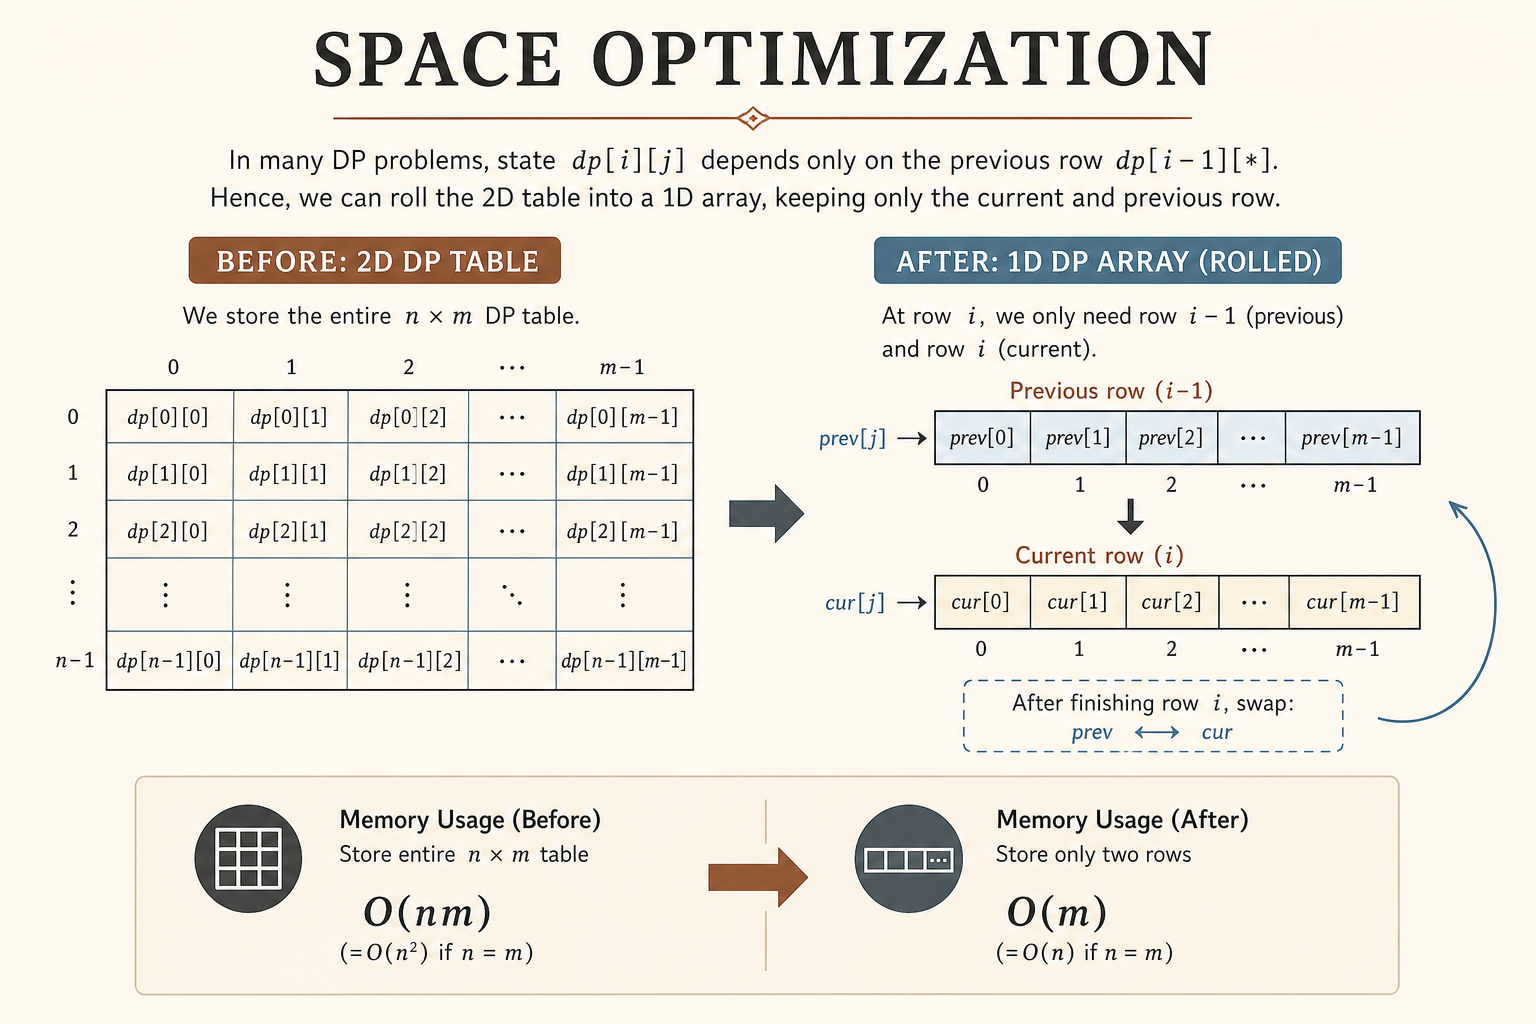
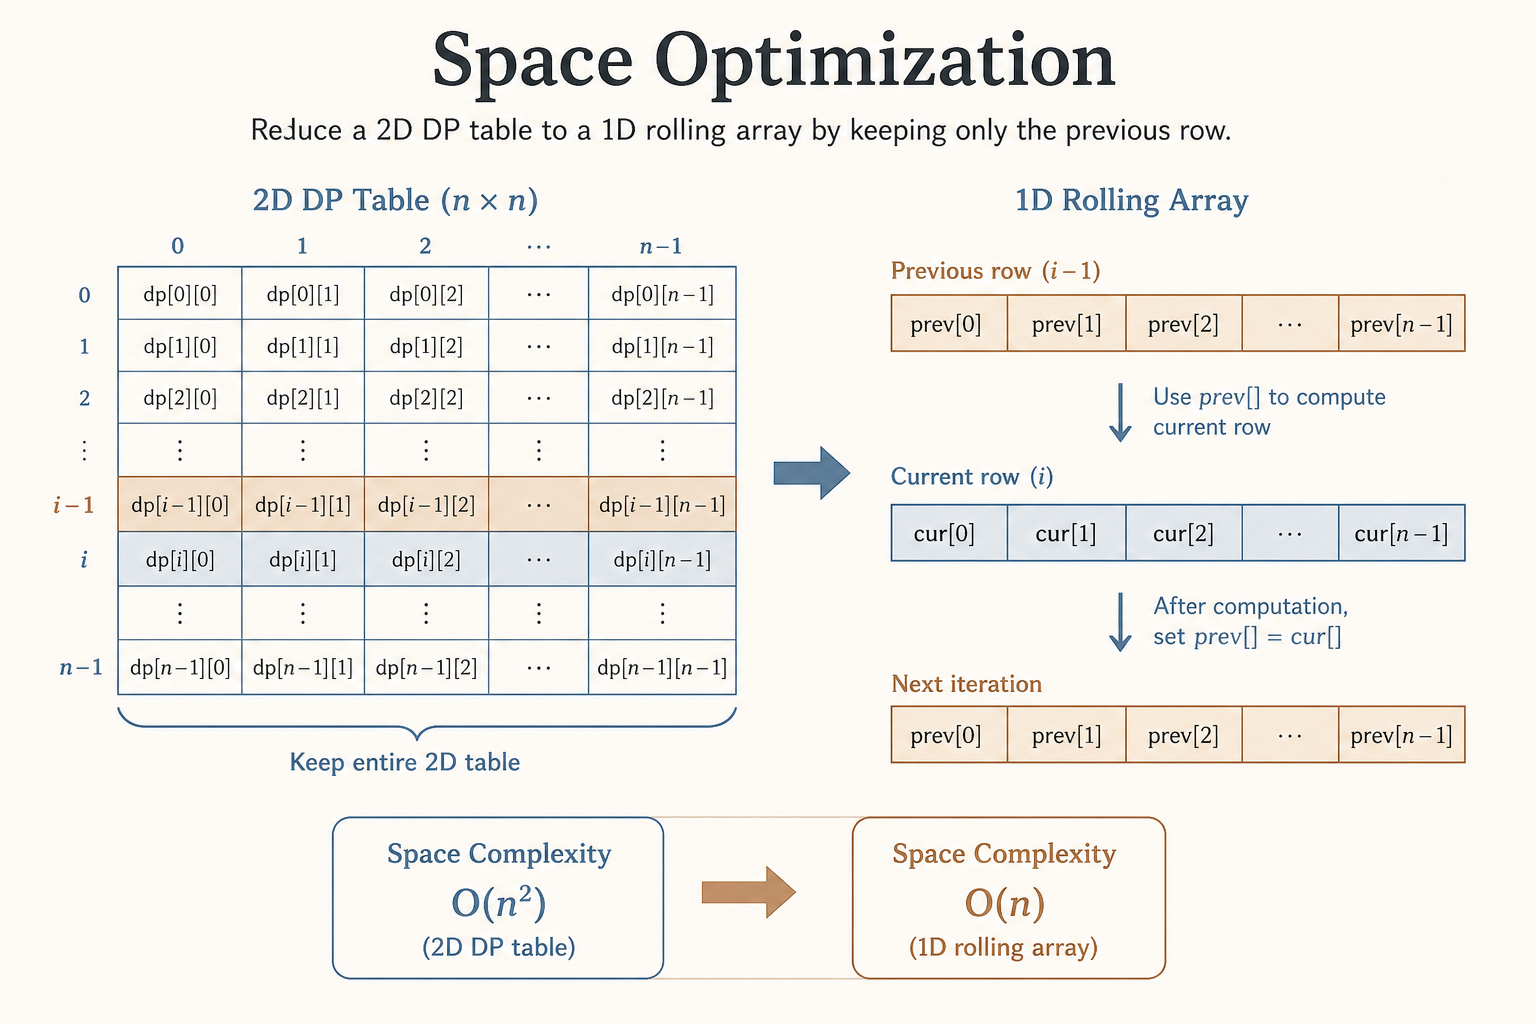
Add: 02_strings/03_palindrome/README.md

diff --git a/02_strings/03_palindrome/README.md b/02_strings/03_palindrome/README.md
@@ -98,7 +98,7 @@ S[i] = S[j] \land dp[i+1][j-1] & \text{if } j > i + 1
 
 **Formula using expand around center:**
 
-$$\text{count} = \sum_{c=0}^{2n-2} \text{palindromes\_from\_center}(c)$$
+$$\text{count} = \sum_{c=0}^{2n-2} \text{palindromes from center}(c)$$
 
 **Time:** $O(n^2)$ total
 
